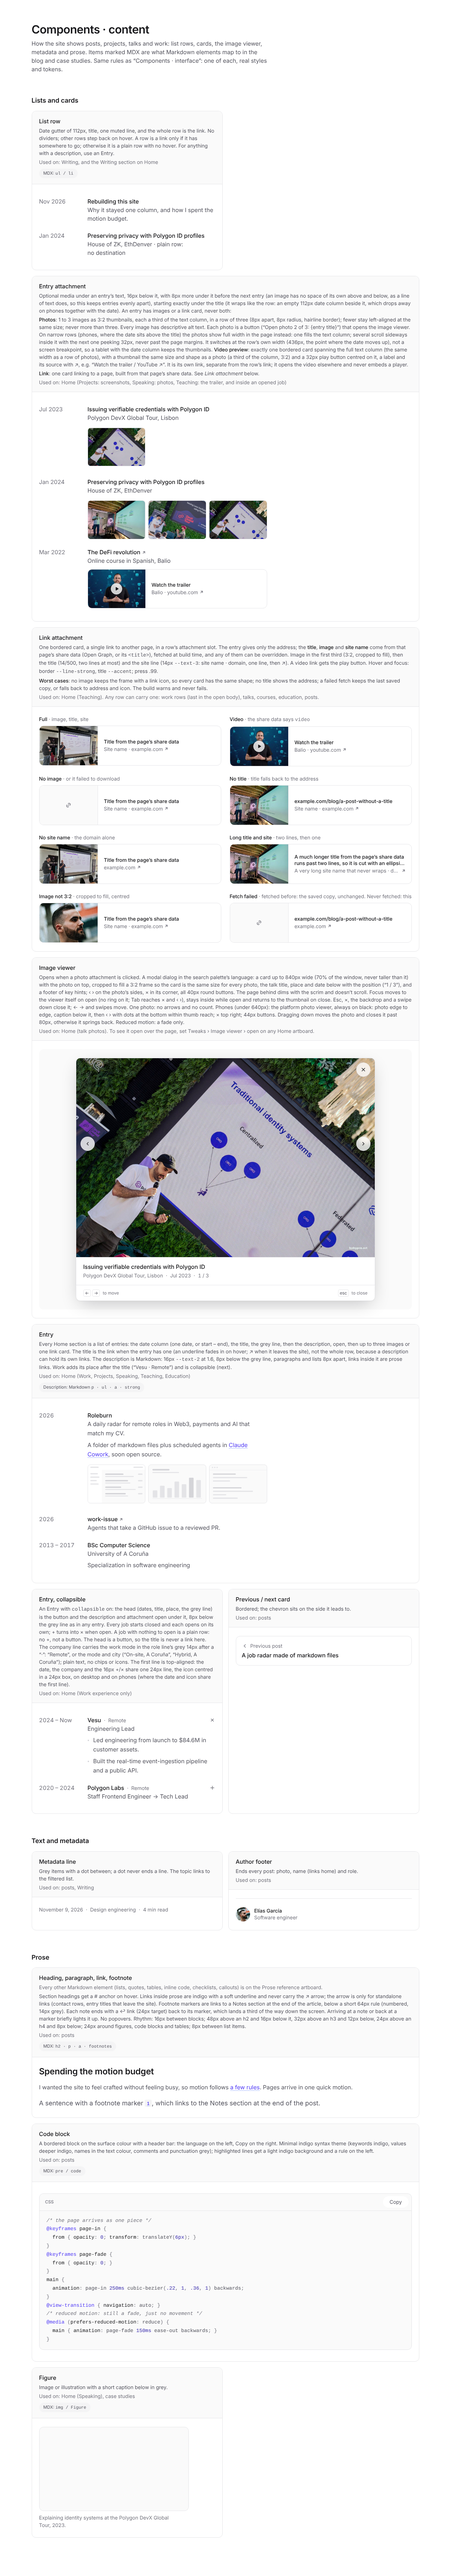
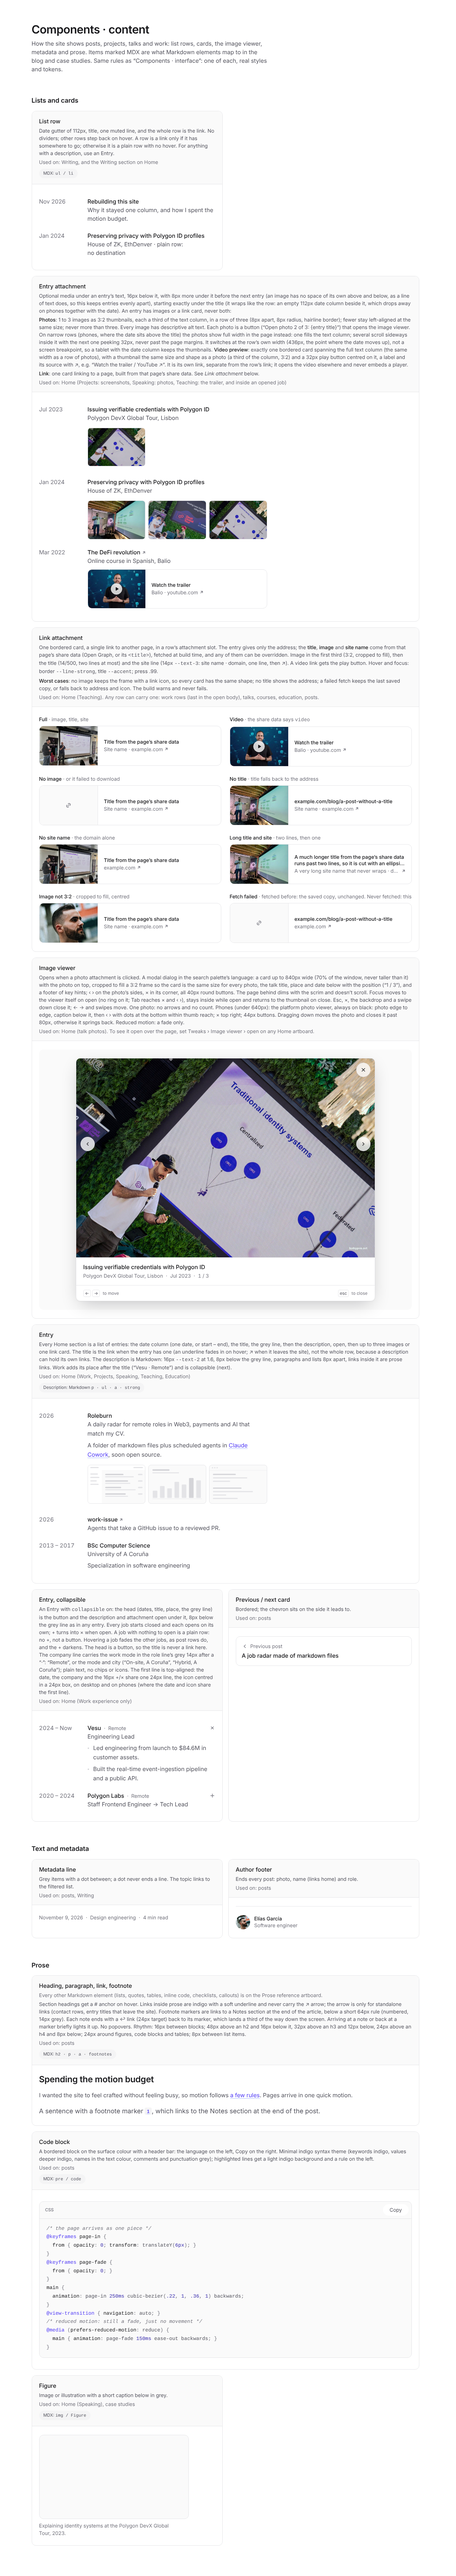
fix: hovering a job fades the other jobs again
The home-entries change dropped Work's hover fade by mistake; the
designer's corrected notes bring it back. Each job is a row of its
list again, and one that opens starts the fade, as post rows do. Open
entries still never fade.

diff --git a/design/reference/components-2.html b/design/reference/components-2.html
@@ -1032,7 +1032,7 @@ a:focus-visible .ext{stroke:currentColor}@media (hover:hover) and (pointer:fine)
   <section data-dc-tpl="366" class="spec" aria-labelledby="c-job">
     <div data-dc-tpl="367" class="spec-h">
       <h3 data-dc-tpl="368" id="c-job">Entry, collapsible</h3>
-      <p data-dc-tpl="369" class="spec-u">An Entry with <code data-dc-tpl="370">collapsible</code> on: the head (dates, title, place, the grey line) is the button and the description and attachment open under it, 8px below the grey line as in any entry. Every job starts closed and each opens on its own; + turns into × when open. A job with nothing to open is a plain row: no +, not a button. The head is a button, so the title is never a link here. The company line carries the work mode in the role line’s grey 14px after a “·”: “Remote”, or the mode and city (“On-site, A Coruña”, “Hybrid, A Coruña”); plain text, no chips or icons. The first line is top-aligned: the date, the company and the 16px +/× share one 24px line, the icon centred in a 24px box, on desktop and on phones (where the date and icon share the first line).</p>
+      <p data-dc-tpl="369" class="spec-u">An Entry with <code data-dc-tpl="370">collapsible</code> on: the head (dates, title, place, the grey line) is the button and the description and attachment open under it, 8px below the grey line as in any entry. Every job starts closed and each opens on its own; + turns into × when open. A job with nothing to open is a plain row: no +, not a button. Hovering a job fades the other jobs, as post rows do, and the + darkens. The head is a button, so the title is never a link here. The company line carries the work mode in the role line’s grey 14px after a “·”: “Remote”, or the mode and city (“On-site, A Coruña”, “Hybrid, A Coruña”); plain text, no chips or icons. The first line is top-aligned: the date, the company and the 16px +/× share one 24px line, the icon centred in a 24px box, on desktop and on phones (where the date and icon share the first line).</p>
       <p data-dc-tpl="371" class="spec-w">Used on: Home (Work experience only)</p>
       
     </div>

diff --git a/design/DESIGN.md b/design/DESIGN.md
@@ -312,7 +312,7 @@ Each component appears exactly once in the design system. Live versions, split b
 - **External-link arrow.** A 12px arrow icon (Tabler `arrow-up-right`), 4px after the word, `--text-3` stroke, link colour on hover and a 1px up-right nudge (pointer devices only). Only on standalone links that leave the site: contact rows, the course row, project facts. Links inside prose never get it. Screen readers hear the link text, plus "(opens in a new tab)" when the link opens one. **The arrow never starts a line:** it is wrapped with the end of its label in a no-wrap span (the text after the last space, dot, slash, hyphen or @; if that is empty or longer than 12 characters, the last three), so they move to the next line together. `ExternalLabel` draws the label and the arrow; `arrowTail()` in `src/lib/links.ts` splits the label.
 
 ### Lists and cards
-- **List row.** For posts (Writing, and Home's Writing section): 112px date gutter (`<time>` in `--text-3`), title 16/500, one second line at 16 in `--text-2`, 12px vertical padding, no dividers, and the whole row is the link. Rows are `<li>` in a `<ul role="list">`. Anything with a description is an Entry (next), not a list row. When a row that links is hovered, every other row of the same list fades to `--dim-rest` (.45), plain rows included (pointer devices only); hovering a plain row fades nothing, since it has no hover. Every row's block carries `row`, and the ones that link also `row-interactive`. The fade covers the whole list the row belongs to: on Writing that is every post across all year groups (the years are one list split by headings; scope the rule to the container of the year groups); on Home, the Writing section only. Entries underline their title instead and never fade. **A row is a link only if it has somewhere to go; otherwise it is a plain row**: not an `<a>`, no hover, not focusable.
+- **List row.** For posts (Writing, and Home's Writing section): 112px date gutter (`<time>` in `--text-3`), title 16/500, one second line at 16 in `--text-2`, 12px vertical padding, no dividers, and the whole row is the link. Rows are `<li>` in a `<ul role="list">`. Anything with a description is an Entry (next), not a list row. When a row that links or opens is hovered, every other row of the same list fades to `--dim-rest` (.45), plain rows included (pointer devices only); hovering a plain row fades nothing, since it has no hover. Every row's block carries `row`, and the ones that link or open also `row-interactive`. The fade covers the whole list the row belongs to: on Writing that is every post across all year groups (the years are one list split by headings; scope the rule to the container of the year groups); on Home, each list whose rows are one control: the Writing section (rows are links) and Work experience (rows open; each fades only its own rows). Open entries (Projects, Speaking, Teaching, Education) underline their title instead and never fade. **A row is a link only if it has somewhere to go; otherwise it is a plain row**: not an `<a>`, no hover, not focusable.
 - **Entry.** Every Home section except Writing (Work, Projects, Speaking, Teaching, Education) is a `<ul role="list">` of entries, one component (`Entry`) with a few props. Each is an `<li>` laid out like a list row (112px date column, 12px vertical padding; the text drops below the date when the row is narrower than 436px), with:
   - **Date column:** one date (`date`: "Jan 2024", "2026") or a range (`start` – `end`, "2020 – 2024", "2024 – Now") for Work and Education. `<time>` in `--text-3`.
   - **Title** (16/500 `--text`). **When the entry has a `link`, the title is the link, not the whole row:** a description can hold its own links, and links can't nest. It underlines on hover (`text-decoration-color` from transparent to `--line-strong`, 150ms) and takes the focus ring; a link that leaves the site ends in the 12px ↗, wrapped with the title's last word. Work adds its place after the title (see Entry, collapsible).
@@ -320,7 +320,7 @@ Each component appears exactly once in the design system. Live versions, split b
   - **Description** (the entry's MDX body, optional; paragraphs, bulleted lists, bold, italic and links only): **8px below the grey line**. With no grey line it follows the title directly, with no gap, the way a post's summary follows its title, so a project without a grey line reads like any list row. It is 16px `--text-2` at line height 1.6, paragraphs and lists **8px apart**, list items 8px apart with a 4px `--line-strong` dot centred on their first line. Links inside are prose links (`--accent`, `--accent-line` underline; one to another site opens in a new tab); `strong` is 600, `em` italic. `overflow-wrap: anywhere`. Always shown, except in Work (collapsible, below).
   - **Attachment** (optional): up to three images **or** one link card, never both, 16px below the text (see Entry attachment).
   - In code: `<Entry {...entry.data} collapsible><Content /></Entry>`, with `collapsible` on Work only.
-  - Hover: only the title link reacts; entries never fade each other (that is the list rows' behaviour).
+  - Hover: only the title link reacts; open entries never fade each other. **Collapsible entries (Work) are the exception:** the whole head is the control, so they keep the list rows' fade (see Entry, collapsible).
 - **Entry attachment.** Optional media under an entry's text, **16px below it, and 8px more under it** before the next entry (except in a list's last entry). A line of text carries empty space above and below its letters and an image doesn't, so without the 8 the next entry looks closer after an image (about 31px to the eye) than after text (about 38); with it both are about 38. One of two kinds, never both. It starts exactly under the entry's title: it wraps like the row, with an empty 112px date column beside it that drops away on phones together with the date. Every attachment image has the same size and shape: a third of the text column (a slot in a row of three, 8px gaps), 3:2, `object-fit: cover`, 8px radius, hairline `--line` border, `--surface` behind it.
   - **Photos:** 1 to 3 images (talk photos, project screenshots) in a `<ul role="list">` grid of three columns; fewer stay left-aligned at the same size; never more than three. Every image has descriptive alt text. **One file per photo**, used by both the thumbnail and the viewer: the talk photos are colour-corrected at their original sizes (1280px wide for House of ZK and AggCave, 2576px for Lisbon). Don't crop, re-colour or keep a second copy of them: the thumbnail is a resized copy of the same file made at build time, so it shows exactly the same centred 3:2 crop as the viewer. Thumbnails are 95–163px wide in the row and up to 435px full width on screens under 484px, so their widths go up to 880 (2× everywhere; more isn't worth the bytes), with `sizes` `(width < 484px) calc(100vw - 3rem), 163px`. Lazy-loaded. Each photo is a `<button>` wrapping the image (`aria-label` "Open photo 2 of 3: {talk title}", `cursor: zoom-in`, image at 88% opacity on hover) that opens the **image viewer** on that photo.
     - **Narrow rows (phones):** when the row is narrower than 436px (the date sits above the title) the photos show full width in the page instead of as thumbnails. One photo fills the text column (3:2). Several sit in a sideways-scrolling strip: `display: flex; overflow-x: auto; scroll-snap-type: x mandatory; gap: 8px; overscroll-behavior-x: contain`, scrollbar hidden; each photo `flex: 0 0 calc(100% - 40px)` with `scroll-snap-align: start`, so the next one peeks 32px. The strip stays inside the text column (never bleeds into the page margins: that keeps it clear of the browser's edge-swipe back gesture and aligned with the text). The photos stay buttons (they are the strip's focusable content) and still open the viewer.
@@ -351,7 +351,7 @@ Each component appears exactly once in the design system. Live versions, split b
   - **Short windows:** the card narrows (the last term of its width) so it's never taller than the window less 24px each side; the photo still fills its 3:2 frame, and the caption and the key hints stay on screen, as on a phone held sideways.
   - **Image:** the same file as the thumbnail, 840 and 1680 wide (up to 2× the card), capped at the original's width.
   - **Build:** a native `<dialog>` opened with `showModal()` and `closedby="any"` (click outside closes; a press and release outside where `closedby` isn't supported), as the search does. Back closes it on every screen, not only phones. Pinch zoom is Panzoom (`@panzoom/panzoom`), loaded the first time a photo opens.
-- **Entry, collapsible (Work only).** The same Entry with `collapsible` on: a native `<details>` whose `<summary>` holds the head (dates, company with its place, job title) and a + icon that rotates to ×; the description and attachment go in the body. The body's height animates open (250ms `--dur-move`) and closed (150ms `--dur-quick`: the open state carries the longer transition) where the browser supports `interpolate-size`; elsewhere it opens and closes instantly. Inside it the description starts **8px under the job title**, as in any entry (the body pulls up 4px against the head's 12px padding), and 12px of padding follow its last block. Layout is a grid: `112px 1fr auto` on desktop; on phones `"date icon" / "text text"` so the + stays beside the date. Several can be open at once: an exclusive accordion would close a row above the one you open and move it out of view (Safari doesn't adjust the scroll for it), and would keep you from comparing two jobs. **Every job is closed on load.** Because the head opens it, a work entry's title is never a link (the schema has no `link` for work); a link goes inside the description. **A job with nothing to open is a plain row:** no description and no attachment means the same date, company and job title, with no + and no button.
+- **Entry, collapsible (Work only).** The same Entry with `collapsible` on: a native `<details>` whose `<summary>` holds the head (dates, company with its place, job title) and a + icon that rotates to ×; the description and attachment go in the body. The body's height animates open (250ms `--dur-move`) and closed (150ms `--dur-quick`: the open state carries the longer transition) where the browser supports `interpolate-size`; elsewhere it opens and closes instantly. Inside it the description starts **8px under the job title**, as in any entry (the body pulls up 4px against the head's 12px padding), and 12px of padding follow its last block. Layout is a grid: `112px 1fr auto` on desktop; on phones `"date icon" / "text text"` so the + stays beside the date. Several can be open at once: an exclusive accordion would close a row above the one you open and move it out of view (Safari doesn't adjust the scroll for it), and would keep you from comparing two jobs. **Every job is closed on load.** **Hover:** hovering a job fades the other jobs to `--dim-rest` (the List row rule: every job carries `row`, and one that opens also `row-interactive`, so a job with nothing to open fades with the others and never starts the fade), and the + darkens to `--text`. The fade is the row's hover feedback; the + alone is not enough. Because the head opens it, a work entry's title is never a link (the schema has no `link` for work); a link goes inside the description. **A job with nothing to open is a plain row:** no description and no attachment means the same date, company and job title, with no + and no button.
   - **Work mode:** the company line carries how the job was done, after the company name: a "·" (8px each side, `--text-3`) then the mode in 14px 400 `--text-3`: "Remote", or the mode and city ("On-site, A Coruña", "Hybrid, A Coruña"). Plain text: no chips, icons or colour. Screen readers get a visually hidden comma instead of the dot ("Polygon Labs, Remote"). The value is the work entry's `place`, written in full ("Remote", "On-site, A Coruña").
   - **First-line alignment:** the head is a grid aligned to the start; the date and the company share 16px / 24px; the 16px +/× sits in the first line and is centred on it, so all three share the first line's centre. On phones the date and the icon share the first line the same way. Never centre the icon against the whole two-line head.
 - **Previous / next card.** Bordered, `--r-lg`; the chevron sits on the side it leads to; press scale .99. In a `<nav aria-label="More posts">`.

diff --git a/PLAN.md b/PLAN.md
@@ -57,6 +57,7 @@ One page per step. Each step builds the components that page needs (DESIGN.md §
 
 23. ~~**Home as a CV of entries.**~~ Done. From the home-entries handoff; DESIGN.md (Entry, Entry attachment, Entry collapsible, Home, §8 Content collections, §9) is the source. The Projects page, the project pages, the tiles, cards, covers and their morph, the project type and status, and the course rating are gone; `vercel.json` redirects `/projects` and `/projects/*` to `/#projects`. Every Home section but Writing is a folder of MDX entries drawn by `Entry` (Work collapsible), in the order About, Work, Projects, Writing, Speaking, Teaching, Education, Contact; search finds posts only; the header is Home · Writing. Decided with you: `openToWork: true` replaces the availability text ("Open to work" is interface copy); the fields the design no longer uses were deleted, not kept as comments; every project article was deleted, Roleburn's included. Kept ours: the profile stays in `site.yaml` (the handoff's `profile.md` only moves it); images stay in `src/assets/`. Any entry can carry a link attachment, and the previews script reads them all.
     - Decided with you: entries are `.mdx` (the handoff says `.md`), so a description's links render with `Link` and open in a new tab when they leave the site, and a description holds paragraphs, bulleted lists, bold, italic and links only, checked by the build (`src/lib/mdast-entry-description.ts`). No underline: it reads as a link. No numbered lists: the design draws only bullets.
+    - From the designer's corrected notes: Work keeps its hover fade, dropped by mistake. Hovering a job fades the other jobs, as post rows do.
 24. ~~**Dark text greys and entry spacing.**~~ Done. From the dark-text-grey handoff and the final home-entries notes; DESIGN.md §2.1, §2.3, Entry and Entry attachment are the source. In dark, `--text-2` is zinc-400 and `--text-3` is zinc-450 (`#85858F`, a step we add to zinc), so the three text greys step as they do in light. In an entry, paragraphs and lists are 8 apart, a description with no grey line follows the title directly, and an attachment carries 8 more under it, except in a list's last entry. Checked in both themes on the build: 0 and 8 to the description, 32 from an attachment to the next entry; axe passes.
 
 ## Notes for the next steps
